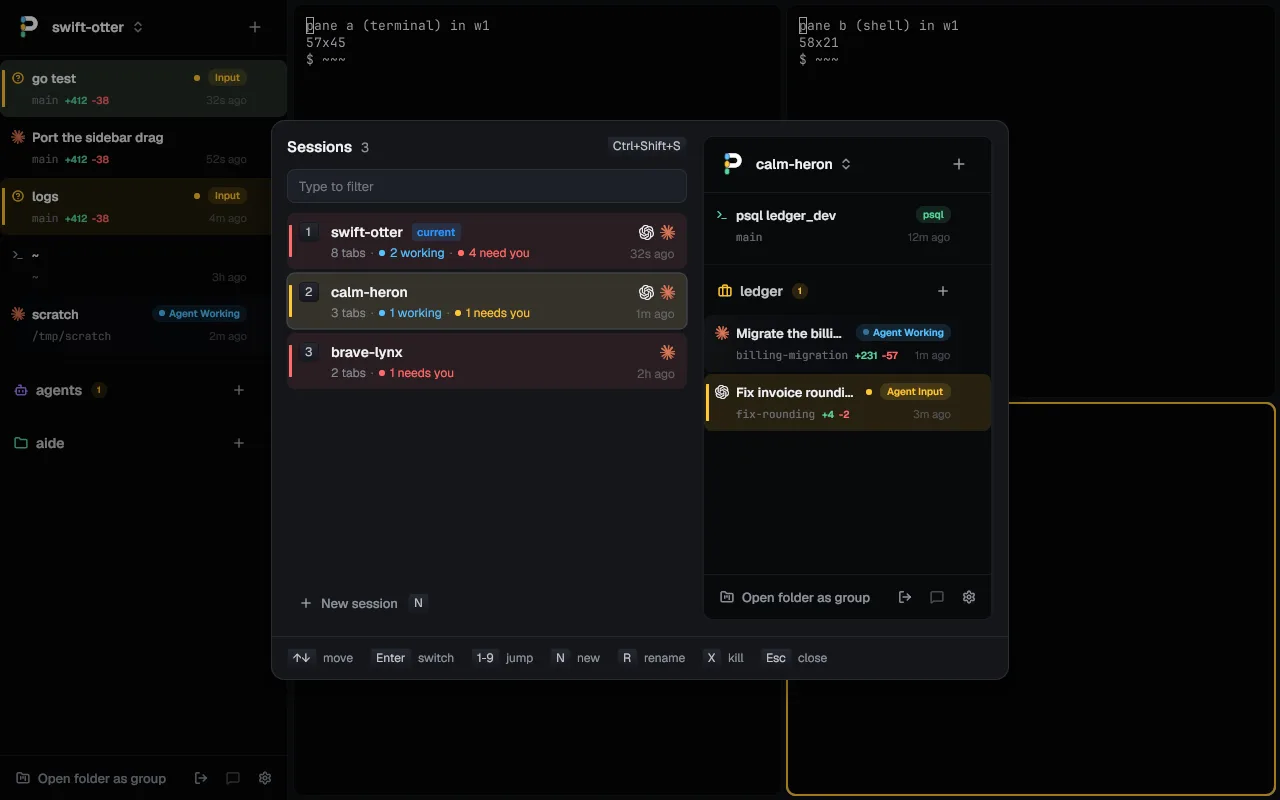
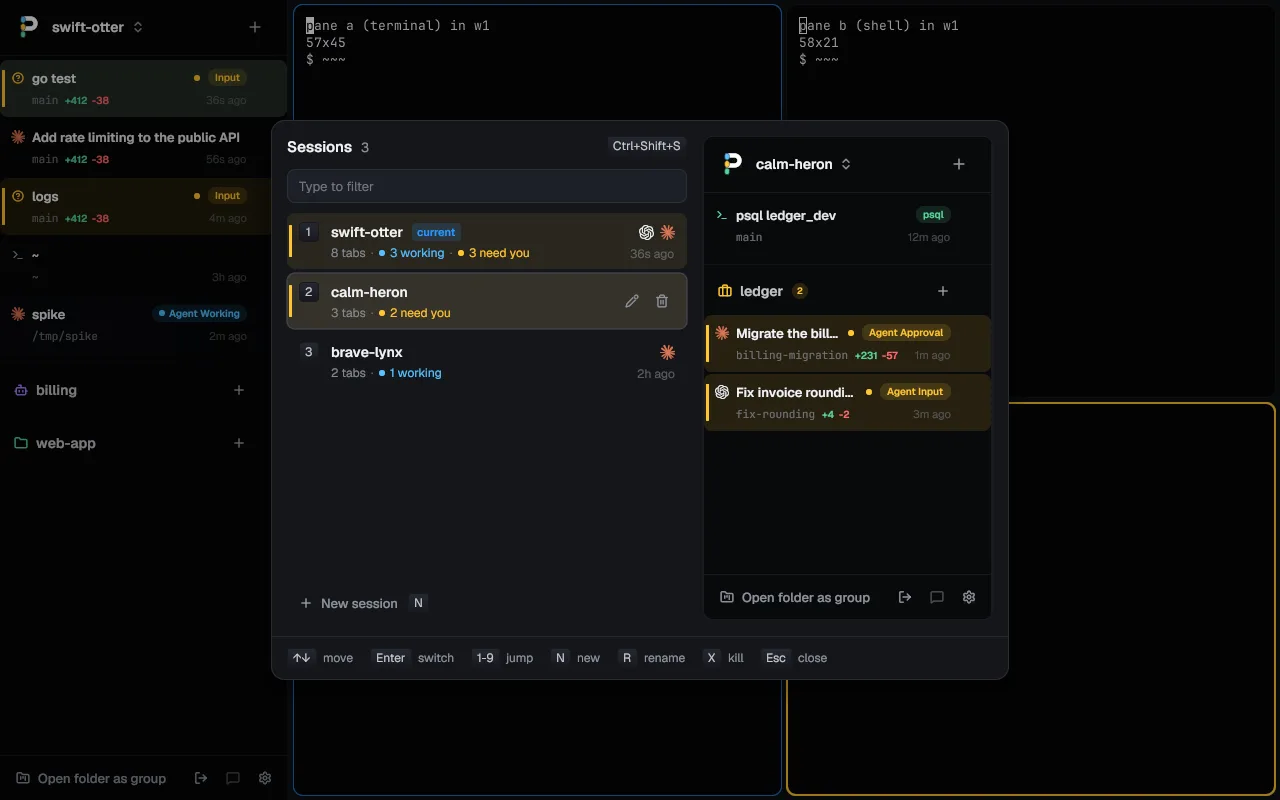
Use fictional projects in the demo data and the sessions image
The fake backend and the sidebar and terminal demos named the user's own
projects, folders and work (and a login name), and docs/media/sessions.webp
showed one of them. Public media must not, so the demos now use made-up
projects (acme-api, web-app, billing, ledger) under ~/src, and the image
is recaptured from the demo with that data.

diff --git a/internal/ui/app/fake.go b/internal/ui/app/fake.go
@@ -58,9 +58,9 @@ func NewFakeBackend() *FakeBackend {
 		{ID: "s3", Name: "brave-lynx", UsedAt: now.Add(-3 * time.Hour)},
 	}
 	f.st.Projects = []model.Project{
-		{ID: "g1", SessionID: "s1", Name: "agents", Kind: model.ProjectGroup, Color: "violet", Icon: "bot"},
-		{ID: "g2", SessionID: "s1", Name: "aide", Root: fakeHome + "/Work/aide", Kind: model.ProjectGit, Color: "green"},
-		{ID: "g3", SessionID: "s2", Name: "ledger", Root: fakeHome + "/Work/ledger", Kind: model.ProjectGit, Color: "amber", Icon: "briefcase"},
+		{ID: "g1", SessionID: "s1", Name: "billing", Kind: model.ProjectGroup, Color: "violet", Icon: "bot"},
+		{ID: "g2", SessionID: "s1", Name: "web-app", Root: fakeHome + "/src/web-app", Kind: model.ProjectGit, Color: "green"},
+		{ID: "g3", SessionID: "s2", Name: "ledger", Root: fakeHome + "/src/ledger", Kind: model.ProjectGit, Color: "amber", Icon: "briefcase"},
 	}
 	ws := func(id, group, name, label, branch, path string, ago time.Duration, tab, title string, root *layout.Node) model.Workspace {
 		w := model.Workspace{ID: id, SessionID: "s1", ProjectID: group, Name: name, Label: label, Branch: branch, Path: path, RepoRoot: path,
@@ -78,29 +78,29 @@ func NewFakeBackend() *FakeBackend {
 		return &layout.Node{Dir: d, Ratios: r, Children: kids}
 	}
 	leaf := func(id string) *layout.Node { return &layout.Node{Pane: id} }
-	pw := fakeHome + "/Work/pitwall"
-	logs := ws("w1c", "", "logs", "tail -f daemon.log", "main", pw, 4*time.Minute, "t3", "tail", leaf("j"))
+	pw := fakeHome + "/src/acme-api"
+	logs := ws("w1c", "", "logs", "tail -f server.log", "main", pw, 4*time.Minute, "t3", "tail", leaf("j"))
 	logs.NameSet = true
-	scratch := ws("w3", "", "scratch", "Sketch the switcher", "", "/tmp/scratch", 2*time.Minute, "t6", "claude", split(layout.Horizontal, leaf("e"), leaf("f")))
-	scratch.NameSet = true
-	otter := ws("w7", "", "swift-otter", "Resume the store", "main", pw, time.Hour, "t7", "claude", leaf("k"))
+	spike := ws("w3", "", "spike", "Try a cache for search results", "", "/tmp/spike", 2*time.Minute, "t6", "claude", split(layout.Horizontal, leaf("e"), leaf("f")))
+	spike.NameSet = true
+	otter := ws("w7", "", "swift-otter", "Upgrade the ORM", "main", pw, time.Hour, "t7", "claude", leaf("k"))
 	otter.Detached = true
 	heron := ws("w8", "", "calm-heron", "tmp", "", "/tmp", 5*time.Hour, "t8", "zsh", leaf("l"))
 	heron.Detached = true
-	worktree := ws("w4", "g1", "brave-ant", "Fix the resize flicker", "fix-flicker", fakeHome+"/Work/aide/.worktrees/fix-flicker", 5*time.Minute, "t4", "claude", leaf("g"))
-	worktree.WorktreeRoot = fakeHome + "/Work/aide"
+	worktree := ws("w4", "g1", "brave-ant", "Fix the checkout race", "fix-checkout-race", fakeHome+"/src/web-app/.worktrees/fix-checkout-race", 5*time.Minute, "t4", "claude", leaf("g"))
+	worktree.WorktreeRoot = fakeHome + "/src/web-app"
 	f.st.Workspaces = []model.Workspace{
 		ws("w1", "", "fast-bee", "go test", "main", pw, 20*time.Second, "t1", "go test", split(layout.Horizontal, leaf("a"), split(layout.Vertical, leaf("b"), leaf("c")))),
-		ws("w1b", "", "bold-fox", "Port the sidebar drag", "main", pw, 40*time.Second, "t2", "claude", leaf("i")),
+		ws("w1b", "", "bold-fox", "Add rate limiting to the public API", "main", pw, 40*time.Second, "t2", "claude", leaf("i")),
 		logs,
 		ws("w2", "", "warm-elk", "~", "", fakeHome, 3*time.Hour, "t5", "zsh", leaf("d")),
-		scratch,
+		spike,
 		worktree,
 		ws("w5", "g1", "tidy-yak", "notes", "", fakeHome+"/notes", 26*time.Hour, "", "", nil),
-		ws("w6", "g2", "lazy-cod", "Cut release 1.4", "release/1.4", fakeHome+"/Work/aide", 9*time.Minute, "t9", "codex", leaf("h")),
+		ws("w6", "g2", "lazy-cod", "Cut release 1.4", "release/1.4", fakeHome+"/src/web-app", 9*time.Minute, "t9", "codex", leaf("h")),
 		otter, heron,
 	}
-	ledger := fakeHome + "/Work/ledger"
+	ledger := fakeHome + "/src/ledger"
 	for _, w := range []model.Workspace{
 		ws("w9", "g3", "", "Migrate the billing schema", "billing-migration", ledger+"/.worktrees/billing-migration", time.Minute, "t10", "claude", leaf("m")),
 		ws("w10", "g3", "", "Fix invoice rounding", "fix-rounding", ledger+"/.worktrees/fix-rounding", 3*time.Minute, "t11", "codex", leaf("n")),
@@ -110,7 +110,7 @@ func NewFakeBackend() *FakeBackend {
 		f.st.Workspaces = append(f.st.Workspaces, w)
 	}
 	for _, w := range []model.Workspace{
-		ws("w12", "", "", "Draft the onboarding guide", "main", fakeHome+"/Work/handbook", 2*time.Hour, "t13", "claude", leaf("p")),
+		ws("w12", "", "", "Draft the onboarding guide", "main", fakeHome+"/src/handbook", 2*time.Hour, "t13", "claude", leaf("p")),
 		ws("w13", "", "", "~", "", fakeHome, 3*time.Hour, "t14", "zsh", leaf("q")),
 	} {
 		w.SessionID = "s3"
@@ -149,7 +149,7 @@ var fakeCycle = []model.AgentState{
 
 // fakeNotices are the OSC notifications the fake starts with, by pane;
 // each goes once SeePane names its pane, as in the daemon.
-var fakeNotices = map[string]string{"c": "Gemini CLI: waiting for your reply", "j": "daemon restarted"}
+var fakeNotices = map[string]string{"c": "Gemini CLI: waiting for your reply", "j": "server restarted"}
 
 // setActivities gives each agent pane its state for this tick. The
 // terminal keeps running `go test` and the Claude in w3 keeps working; the

diff --git a/cmd/pwdemo-sidebar/main.go b/cmd/pwdemo-sidebar/main.go
@@ -120,8 +120,8 @@ func fakeState(now time.Time) model.State {
 	ago := func(d time.Duration) time.Time { return now.Add(-d) }
 	st := model.State{
 		Projects: []model.Project{
-			{ID: "p-pitwall", Name: "pitwall", Root: "/home/me/Work/pitwall", Kind: model.ProjectGit, Color: "sky", Icon: "terminal"},
-			{ID: "p-aide", Name: "aide", Root: "/home/me/Work/aide", Kind: model.ProjectGit, Color: "violet", Icon: "sparkles"},
+			{ID: "p-api", Name: "acme-api", Root: "/home/me/src/acme-api", Kind: model.ProjectGit, Color: "sky", Icon: "server"},
+			{ID: "p-web", Name: "web-app", Root: "/home/me/src/web-app", Kind: model.ProjectGit, Color: "violet", Icon: "globe"},
 			{ID: "p-notes", Name: "notes", Root: "/home/me/notes", Kind: model.ProjectFolder, Color: "amber"},
 		},
 		Stats: map[string]model.BranchStats{
@@ -134,7 +134,7 @@ func fakeState(now time.Time) model.State {
 		},
 	}
 	add := func(id, project, name, branch string, updated time.Duration, provider model.Provider, state model.AgentState) {
-		st.Workspaces = append(st.Workspaces, model.Workspace{ID: id, ProjectID: project, Name: name, Branch: branch, Path: "/home/me/Work/" + name, UpdatedAt: ago(updated)})
+		st.Workspaces = append(st.Workspaces, model.Workspace{ID: id, ProjectID: project, Name: name, Branch: branch, Path: "/home/me/src/" + name, UpdatedAt: ago(updated)})
 		if state != "" {
 			detail := ""
 			if provider == model.ProviderTerminal {
@@ -144,16 +144,16 @@ func fakeState(now time.Time) model.State {
 		}
 	}
 	add("ws-main", "", "home", "", 3*time.Hour, "", "")
-	add("ws-sidebar", "p-pitwall", "Theme and sidebar", "track/sidebar", 40*time.Second, model.ProviderClaude, model.StateWorking)
-	add("ws-term", "p-pitwall", "Terminal renderer", "track/term", 2*time.Minute, model.ProviderCodex, model.StateConnecting)
-	add("ws-daemon", "p-pitwall", "Daemon socket server", "track/daemon", 5*time.Minute, model.ProviderClaude, model.StatePendingApproval)
-	add("ws-conflict", "p-pitwall", "Store resume commands", "track/store", 9*time.Minute, model.ProviderClaude, model.StateError)
-	add("ws-plan", "p-pitwall", "Split tree ops", "track/layout", 22*time.Minute, model.ProviderClaude, model.StatePlanReady)
-	add("ws-hotkeys", "p-aide", "Alt navigation hotkeys", "fix/alt-nav", 12*time.Minute, model.ProviderClaude, model.StateAwaitingInput)
-	add("ws-release", "p-aide", "Release 1.4", "release/1.4", 26*time.Hour, model.ProviderCodex, model.StateCompleted)
+	add("ws-sidebar", "p-api", "Add rate limiting to the public API", "rate-limit", 40*time.Second, model.ProviderClaude, model.StateWorking)
+	add("ws-term", "p-api", "Paginate the orders endpoint", "orders-pagination", 2*time.Minute, model.ProviderCodex, model.StateConnecting)
+	add("ws-daemon", "p-api", "Rotate the signing keys", "key-rotation", 5*time.Minute, model.ProviderClaude, model.StatePendingApproval)
+	add("ws-conflict", "p-api", "Retry failed webhooks", "webhook-retry", 9*time.Minute, model.ProviderClaude, model.StateError)
+	add("ws-plan", "p-api", "Split the billing service", "billing-split", 22*time.Minute, model.ProviderClaude, model.StatePlanReady)
+	add("ws-hotkeys", "p-web", "Fix the checkout race", "fix/checkout-race", 12*time.Minute, model.ProviderClaude, model.StateAwaitingInput)
+	add("ws-release", "p-web", "Release 2.3", "release/2.3", 26*time.Hour, model.ProviderCodex, model.StateCompleted)
 	add("ws-ci", "", "CI watch", "", 30*time.Second, model.ProviderTerminal, model.StateTerminalRunning)
 	add("ws-notes", "p-notes", "notes", "", 4*24*time.Hour, "", "")
-	add("ws-old", "p-aide", "Old spike", "spike/electron-41", 9*24*time.Hour, "", "")
+	add("ws-old", "p-web", "Old spike", "spike/new-router", 9*24*time.Hour, "", "")
 	st.Workspaces[len(st.Workspaces)-1].Detached = true
 	for i := range st.Workspaces {
 		if st.Workspaces[i].ProjectID == "p-notes" {

diff --git a/cmd/pwdemo-term/main.go b/cmd/pwdemo-term/main.go
@@ -178,23 +178,23 @@ func fixture() *vt.Grid {
 	g := blank(120, 40)
 	w := &writer{g: g}
 	prompt := func() {
-		w.style(pal(2), 0, vt.Bold).put("pho7on@omarchy").style(0, 0, 0).put(":")
-		w.style(pal(4), 0, vt.Bold).put("~/Work/pitwall").style(pal(5), 0, 0).put("  track/term")
+		w.style(pal(2), 0, vt.Bold).put("dev@workstation").style(0, 0, 0).put(":")
+		w.style(pal(4), 0, vt.Bold).put("~/src/acme-api").style(pal(5), 0, 0).put("  rate-limit")
 		w.style(pal(3), 0, 0).put(" ✚1").style(pal(2), 0, vt.Bold).put(" ❯ ").style(0, 0, 0)
 	}
 	prompt()
 	w.put("ls -la --color").nl()
 	w.style(pal(4), 0, vt.Bold).put("cmd").style(0, 0, 0).put("  ")
 	w.style(pal(4), 0, vt.Bold).put("internal").style(0, 0, 0).put("  go.mod  go.sum  ")
-	w.style(pal(2), 0, vt.Bold).put("pitwall").style(0, 0, 0).put("  AGENTS.md  ")
+	w.style(pal(2), 0, vt.Bold).put("acme-api").style(0, 0, 0).put("  AGENTS.md  ")
 	w.style(pal(6), 0, 0).put("README -> AGENTS.md").nl().nl()
 
 	for _, row := range []string{
 		"┌──────────────┬──────────┬─────────┬──────────────────┐",
 		"│ agent        │ status   │ tokens  │ branch           │",
 		"├──────────────┼──────────┼─────────┼──────────────────┤",
-		"│ claude       │ busy     │ 12.4k   │ track/term       │",
-		"│ codex        │ idle     │ 3.1k    │ track/vt         │",
+		"│ claude       │ busy     │ 12.4k   │ rate-limit       │",
+		"│ codex        │ idle     │ 3.1k    │ key-rotation     │",
 		"└──────────────┴──────────┴─────────┴──────────────────┘",
 	} {
 		w.style(pal(8+7), 0, 0).put(row).nl()

diff --git a/internal/ui/app/nav_test.go b/internal/ui/app/nav_test.go
@@ -219,7 +219,7 @@ func TestNavGroups(t *testing.T) {
 	st = b.State()
 	n.sync(&st)
 	w := findWorkspace(&st, n.workspace)
-	if w == nil || orderedIn(&st, "s1")[1].ID != w.ID || w.Path != fakeHome+"/Work/pitwall" || n.focused() == "" || w.ProjectID != "" {
+	if w == nil || orderedIn(&st, "s1")[1].ID != w.ID || w.Path != fakeHome+"/src/acme-api" || n.focused() == "" || w.ProjectID != "" {
 		t.Fatalf("new tab not below w1, selected and focused: %s/%s", n.workspace, n.focused())
 	}
 }
